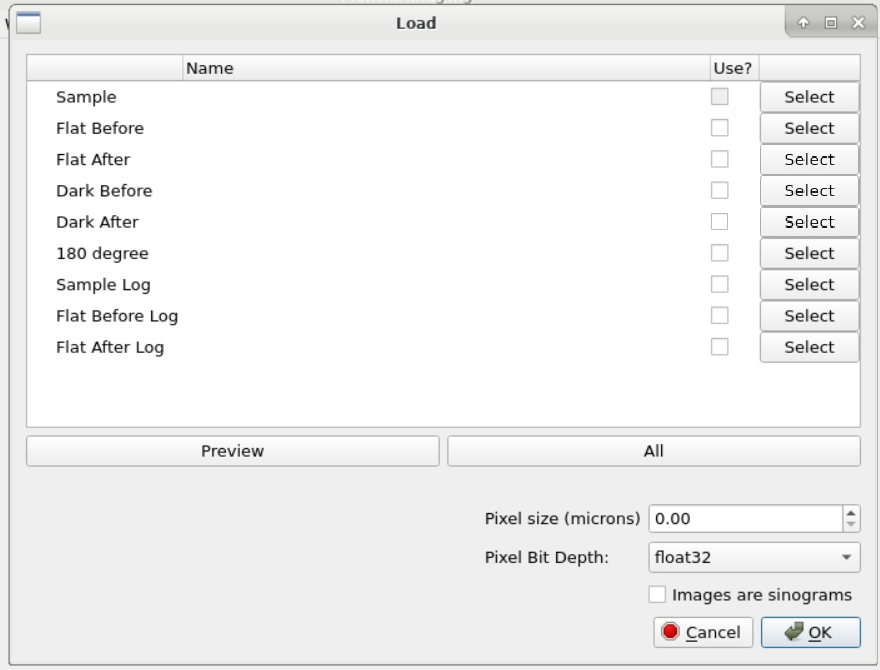
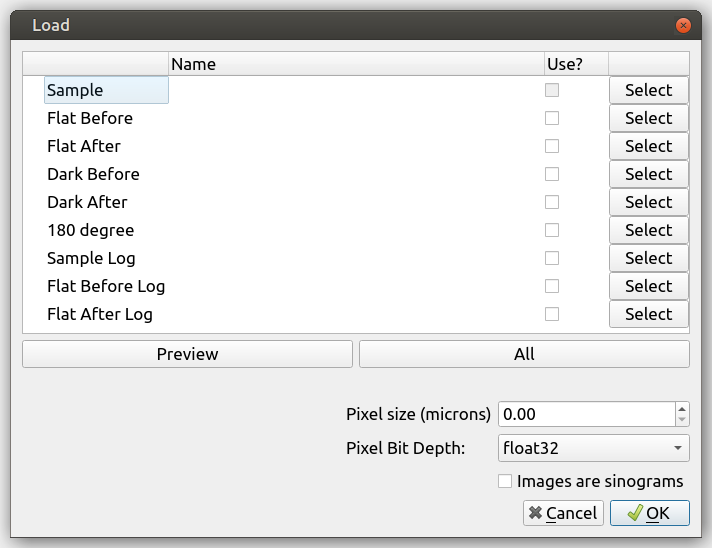
Update docs for loading dialog

Changed region(s): [[0.0, 0.0, 1.0, 1.0], [0.0618, 0.4653, 0.2472, 0.5894]]

diff --git a/docs/user_guide/gui/loading_saving.rst b/docs/user_guide/gui/loading_saving.rst
@@ -1,44 +1,33 @@
 Loading and Saving
 ==================
 
-Loading sand saving data is performed via the *Load* and *Save* options on the
+Loading sand saving data is performed via the *Load dataset* and *Save* options on the
 *File* menu.
 
 Loading
 -------
 
-When *Load* is selected, the following dialog will appear:
+When *Load dataset* is selected, the following dialog will appear:
 
-.. image:: ../../_static/gui_load_dialog_empty.png
+.. image:: ../../_static/loading_screen.png
     :alt: Initial Load dialog
 
-This allows you to select the data you wish to load; in the case of TIFF or FITS
-images then any image in a directory containing an image stack can be selected
-or a single NeXus file if loading from NeXus.
+This allows you to select the data you wish to load; The Sample entry should be used to select a the first projection TIFF file, the remaining TIFF files in the directory will be automatically detected if their filename matches the pattern. The loading dialog will try to automatically find associated files including flat fields, dark frames, 180 degree projections and sample logs.
 
 Once data has been selected, it's shape is inspected and the stack index fields
 pre populated as shown below:
 
-.. image:: ../../_static/gui_load_dialog_selected.png
+.. image:: ../../_static/loading_screen_filled.png
     :alt: Load dialog after selecting data
 
 The *Start* and *End* fields control the range of images that are loaded and
-*Step* defines the interval at which images are selected.
+*Increment* defines the interval at which images are selected.
 
-A default is set once data has been selected that specifies 10 images over the
-full stack of images.
-
-The *Custom Name* option allows you to specify a name for the loaded image stack
-manually, if none is provided then a default name derived from the filename will
-be used.
+To quickly load only 10 images from a stack, press the preview button, which will set a large enough *Increment*.
 
 *Pixel Bit Depth* is used for the estimated memory size calculation, typically
 images will use 32bit floating point numbers as the pixel format so this can be
-left at the default value of *32*.
-
-*Parallel Load* attempts to load the images in parallel, however on IO limited
-systems this can prove slower than a sequential load, hence it is recommended
-not to enable this option.
+left at the default value of *float32*.
 
 Saving
 ------

diff --git a/docs/user_guide/index.rst b/docs/user_guide/index.rst
@@ -46,6 +46,8 @@ At this stage there is also the option to:
 #. Select the pixel size of the detector used in microns. This can also be changed at a later stage.
 #. Untick a category of files to not load. For example, if both "Dark Before" and "Dark After" images have been found this can be adjusted to only one.
 
+Read more about loading in :ref:`Loading and Saving`.
+
 Project Window
 ##############
 
